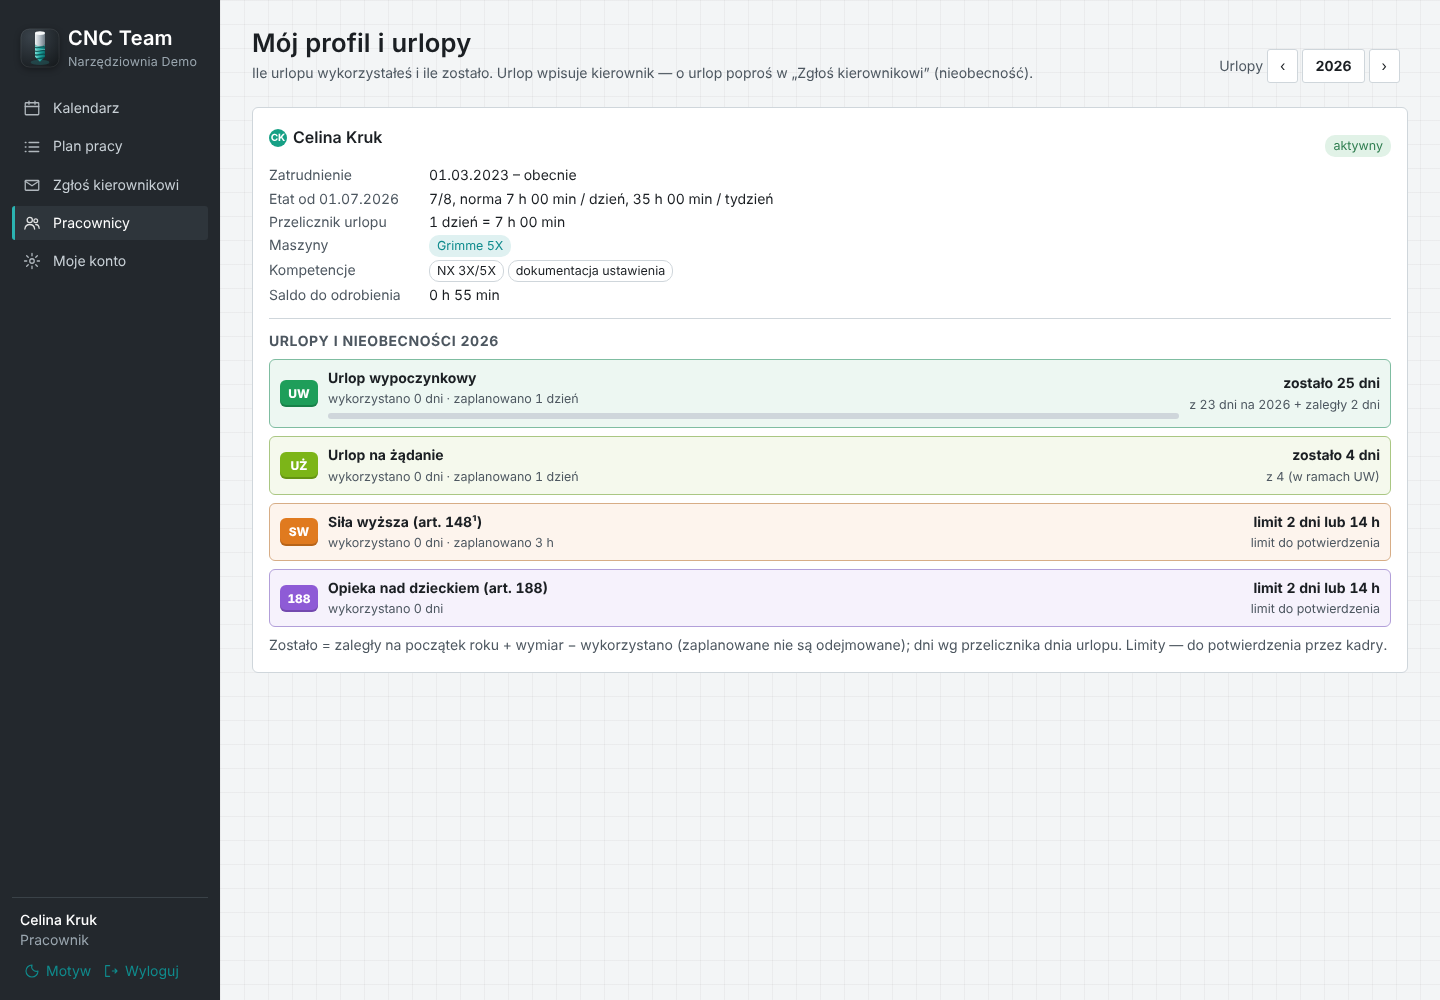
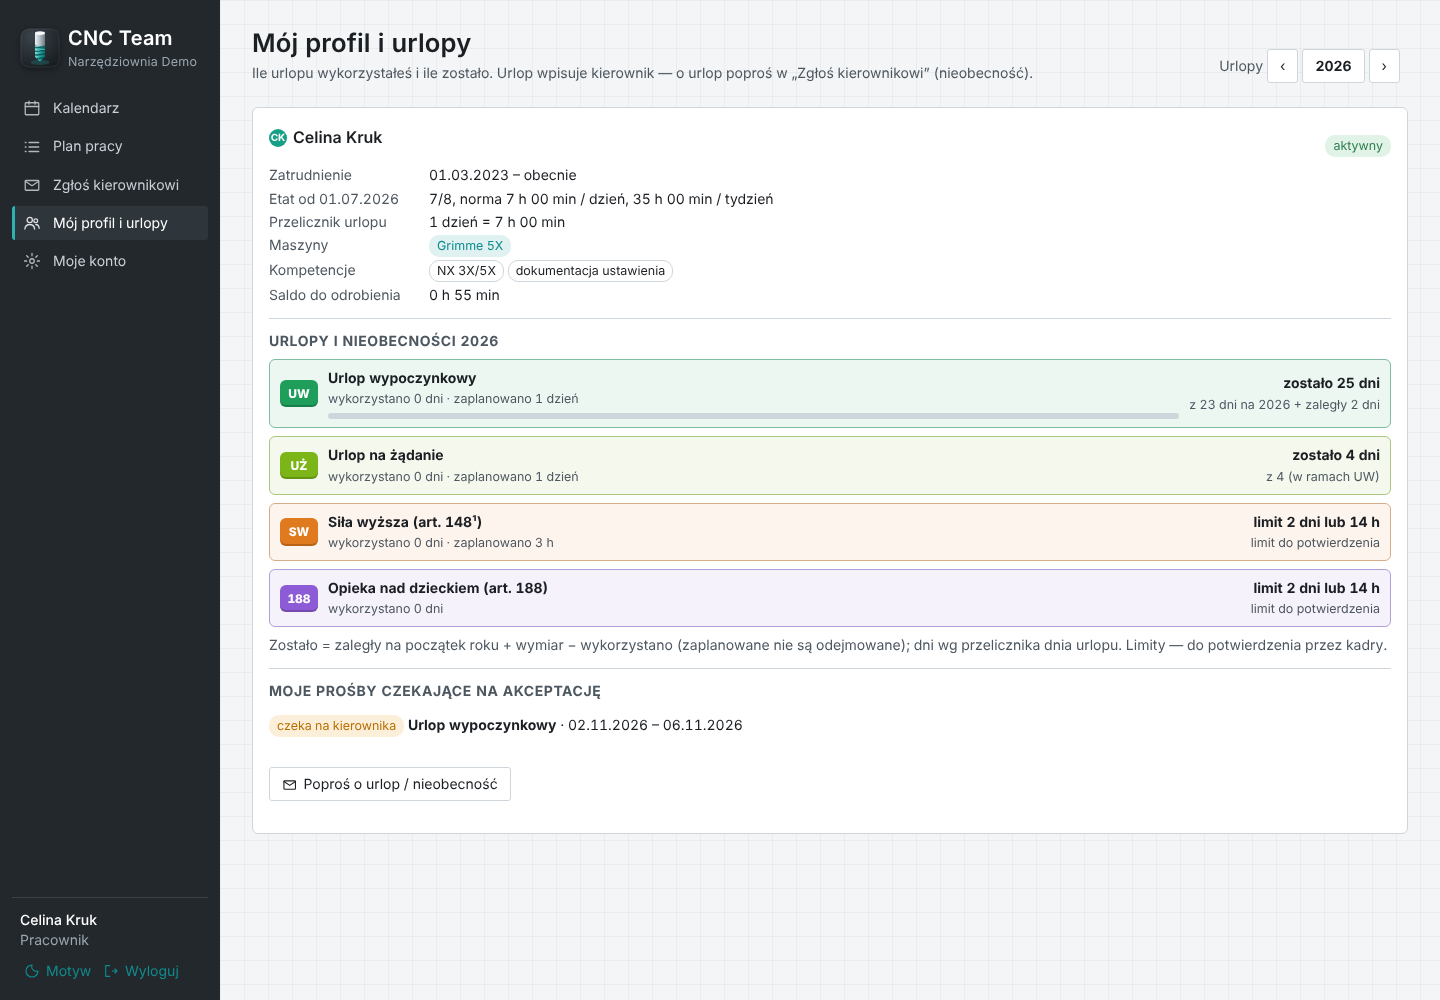
Wersja 0.13: programista zaznacza, kiedy i o jaki urlop prosi; urlop powstaje tylko po akceptacji kierownika (podpowiedziana kategoria); prośby w profilu programisty
Claude-Session: https://claude.ai/code/session_01Mgo9RDb6yKEqWF3PSmGbbJ

Changed region(s): [[0.1875, 0.682, 0.5, 0.744], [0.1875, 0.775, 0.3438, 0.806], [0.0312, 0.217, 0.125, 0.248]]

diff --git a/public/views-requests.js b/public/views-requests.js
@@ -8,6 +8,11 @@ const REQ_KIND = {
   odrobienie: ['Odrobienie czasu', 'makeup', 'Kiedy odrobiłeś / odrobisz'],
   inne: ['Inna sprawa', 'other', 'Opisz w uwadze'],
 };
+// O jaki rodzaj nieobecności prosi programista (kierownik decyduje i wpisuje)
+const WANTED_LABEL = { URLOP_WYP: 'Urlop wypoczynkowy', URLOP_NA_ZADANIE: 'Urlop na żądanie', L4: 'Zwolnienie lekarskie (L4)', OPIEKA_ZUS: 'Opieka nad chorym (zasiłek opiekuńczy)',
+  OPIEKA_188: 'Opieka nad dzieckiem (art. 188)', SILA_WYZSZA: 'Siła wyższa (art. 148¹)', OKOL_SLUB: 'Okolicznościowy — ślub', OKOL_NARODZINY: 'Okolicznościowy — narodziny dziecka',
+  OKOL_ZGON_BLISKI: 'Okolicznościowy — zgon osoby bliskiej', OKOL_SLUB_DZIECKA: 'Okolicznościowy — ślub dziecka', OKOL_ZGON_DALSZY: 'Okolicznościowy — zgon dalszej rodziny',
+  BEZPLATNY: 'Urlop bezpłatny', KREW: 'Oddawanie krwi', BADANIA_PROFIL: 'Badania profilaktyczne', SZKOLENIOWY: 'Szkolenie', WEZWANIE: 'Wezwanie (sąd, urząd)', WOJSKO: 'Obowiązki wojskowe', INNE_USTAWOWE: 'Inne zwolnienie ustawowe' };
 const REQ_STATUS = { nowe: ['czeka na decyzję', 'warn'], przyjete: ['przyjęte', 'ok'], odrzucone: ['odrzucone', 'danger'], wycofane: ['wycofane', ''] };
 
 function reqWhen(r) {
@@ -28,6 +33,8 @@ VIEWS.zglos = async (main) => {
       <form id="reqF" class="form-grid" hidden>
         <label class="field">Dzień<input type="date" name="date_from" required value="${S.me.today}"></label>
         <label class="field" data-show="nieobecnosc">Do dnia (opcjonalnie)<input type="date" name="date_to"></label>
+        <label class="field wide" data-show="nieobecnosc">O jaki rodzaj prosisz<select name="wanted_code"><option value="">— nie wiem / opiszę w uwadze —</option>${Object.entries(WANTED_LABEL).map(([k, l]) => `<option value="${k}">${esc(l)}</option>`).join('')}</select>
+          <span class="help">Zaznaczasz tylko prośbę — urlop przyznaje i wpisuje kierownik.</span></label>
         <label class="field" data-show="wyjscie odrobienie nieobecnosc inne">Od godz.<input type="time" name="time_from"></label>
         <label class="field" data-show="spoznienie wyjscie odrobienie nieobecnosc inne"><span data-lbl>Do godz.</span><input type="time" name="time_to"></label>
         <label class="field wide">Uwaga dla kierownika<textarea name="note" maxlength="500" rows="3" placeholder="Np. powód. Bez danych medycznych."></textarea></label>
@@ -35,7 +42,7 @@ VIEWS.zglos = async (main) => {
         <div class="form-error wide" role="alert"></div>
       </form></section>
       <section class="panel"><h3>Moje zgłoszenia</h3>${table([
-        { key: r => r, label: 'Zgłoszenie', fmt: r => `${icon(REQ_KIND[r.kind][1])} <b>${esc(REQ_KIND[r.kind][0])}</b><br><span class="small">${reqWhen(r)}</span>${r.note ? `<br><span class="small muted">${esc(r.note)}</span>` : ''}` },
+        { key: r => r, label: 'Zgłoszenie', fmt: r => `${icon(REQ_KIND[r.kind][1])} <b>${esc(REQ_KIND[r.kind][0])}</b>${r.wanted_code ? ` — ${esc(WANTED_LABEL[r.wanted_code] || '')}` : ''}<br><span class="small">${reqWhen(r)}</span>${r.note ? `<br><span class="small muted">${esc(r.note)}</span>` : ''}` },
         { key: r => r, label: 'Decyzja', fmt: r => `${tag(...REQ_STATUS[r.status])}${r.decision_note ? `<br><span class="small">${esc(r.decision_note)}</span>` : ''}${r.decided_at ? `<br><span class="small muted">${new Date(r.decided_at).toLocaleString('pl-PL', { timeZone: 'Europe/Warsaw' })}</span>` : ''}` },
         { key: r => r, label: '', fmt: r => r.status === 'nowe' ? `<button class="link" data-withdraw="${r.id}">Wycofaj</button>` : '' },
       ], list, { empty: 'Nie masz jeszcze zgłoszeń.', rowClass: r => r.status === 'wycofane' ? 'row-cancel' : '' })}</section></div>`;
@@ -74,7 +81,7 @@ async function localRequestsSection() {
   const list = await api('/requests');
   const html = `<section class="panel"><h3>Zgłoszenia pracowników</h3>${table([
     { key: r => r, label: 'Pracownik', fmt: r => person(r.employee_id) },
-    { key: r => r, label: 'Rodzaj', fmt: r => `${icon(REQ_KIND[r.kind][1])} ${esc(REQ_KIND[r.kind][0])}` },
+    { key: r => r, label: 'Rodzaj', fmt: r => `${icon(REQ_KIND[r.kind][1])} ${esc(REQ_KIND[r.kind][0])}${r.wanted_code ? `<br><span class="small">prośba: <b>${esc(WANTED_LABEL[r.wanted_code] || r.wanted_code)}</b></span>` : ''}` },
     { key: r => r, label: 'Kiedy', fmt: r => reqWhen(r) },
     { key: 'note', label: 'Uwaga pracownika' },
     { key: r => new Date(r.created_at).toLocaleString('pl-PL', { timeZone: 'Europe/Warsaw' }), label: 'Zgłoszono' },
@@ -108,10 +115,10 @@ function requestAcceptForm(r) {
   const { options, cats, byCode } = requestTargetOptions(r.kind);
   openForm({
     title: `Przyjmij: ${REQ_KIND[r.kind][0]} — ${S.emp.get(r.employee_id)?.first_name || ''}`,
-    intro: `<p class="small">${reqWhen(r)}${r.note ? `<br>Uwaga: ${esc(r.note)}` : ''}</p><p class="small muted">Wpis powstanie z odnośnikiem do zgłoszenia #${r.id}; w historii zapisze się, kto przyjął.</p>`,
+    intro: `<p class="small">${reqWhen(r)}${r.wanted_code ? `<br>Pracownik prosi o: <b>${esc(WANTED_LABEL[r.wanted_code] || r.wanted_code)}</b> (możesz wybrać inną kategorię)` : ''}${r.note ? `<br>Uwaga: ${esc(r.note)}` : ''}</p><p class="small muted">Wpis powstanie z odnośnikiem do zgłoszenia #${r.id}; w historii zapisze się, kto przyjął.</p>`,
     fields: [
       { name: 'target', label: 'Jak rozliczyć', type: 'select', options, value: options[0][0], placeholder: false, wide: true },
-      { name: 'category_id', label: 'Kategoria nieobecności', type: 'select', options: cats.map(c => [c.id, c.subtype ? `${c.name} — ${c.subtype}` : c.name]), value: byCode('INNE_USPRAW'), placeholder: false, wide: true, show: v => v.target === 'absence' },
+      { name: 'category_id', label: 'Kategoria nieobecności', type: 'select', options: cats.map(c => [c.id, c.subtype ? `${c.name} — ${c.subtype}` : c.name]), value: (r.wanted_code && byCode(r.wanted_code)) || byCode('INNE_USPRAW'), placeholder: false, wide: true, show: v => v.target === 'absence' },
       { name: 'unit', label: 'Jednostka (gdy kategoria pozwala)', type: 'select', options: [['dni', 'dni'], ['godziny', 'godziny']], value: r.time_from ? 'godziny' : 'dni', placeholder: false, show: v => v.target === 'absence' },
       { name: 'written_request', label: 'Uznaj zgłoszenie za pisemny wniosek pracownika', type: 'checkbox', wide: true, help: 'Czy forma elektroniczna spełnia wymóg wniosku — do potwierdzenia z kadrami.', show: v => v.target === 'exit' },
       { name: 'day_off_reason', label: 'Uzasadnienie, jeśli odrabianie wypada w dniu wolnym', wide: true, show: v => v.target === 'makeup' },

diff --git a/server/domain/requests.js b/server/domain/requests.js
@@ -11,6 +11,9 @@ const KINDS = {
   nieobecnosc: 'Nieobecność', spoznienie: 'Spóźnienie', wyjscie: 'Wyjście w trakcie zmiany',
   odrobienie: 'Odrobienie czasu', inne: 'Inna sprawa',
 };
+// Rodzaje nieobecności, o które programista może poprosić (zaznacza — przyjęcie i wpis wyłącznie przez kierownika)
+const WANTED = ['URLOP_WYP', 'URLOP_NA_ZADANIE', 'L4', 'OPIEKA_ZUS', 'OPIEKA_188', 'SILA_WYZSZA', 'OKOL_SLUB', 'OKOL_NARODZINY', 'OKOL_ZGON_BLISKI',
+  'OKOL_SLUB_DZIECKA', 'OKOL_ZGON_DALSZY', 'BEZPLATNY', 'KREW', 'BADANIA_PROFIL', 'SZKOLENIOWY', 'WEZWANIE', 'WOJSKO', 'INNE_USTAWOWE'];
 const DATE_RE = /^\d{4}-\d{2}-\d{2}$/;
 const TIME_RE = /^([01]\d|2[0-3]):[0-5]\d$/;
 const MAX_BACK_DAYS = 31;
@@ -22,6 +25,7 @@ function validate(body, today = T.today()) {
     kind: body.kind, date_from: body.date_from, date_to: body.date_to || body.date_from,
     time_from: body.time_from || null, time_to: body.time_to || null,
     note: body.note == null || String(body.note).trim() === '' ? null : String(body.note).trim(),
+    wanted_code: body.kind === 'nieobecnosc' && body.wanted_code ? String(body.wanted_code) : null,
   };
   const errors = [];
   if (typeof r.kind !== 'string' || !Object.hasOwn(KINDS, r.kind)) errors.push('Wybierz rodzaj zgłoszenia.');
@@ -41,6 +45,7 @@ function validate(body, today = T.today()) {
     if (r.date_to !== r.date_from) errors.push('Odrobienie zgłaszasz osobno dla każdego dnia.');
   }
   if (r.kind === 'inne' && !r.note) errors.push('Opisz sprawę w uwadze.');
+  if (r.wanted_code && !WANTED.includes(r.wanted_code)) errors.push('Nieznany rodzaj nieobecności.');
   if (r.note && r.note.length > 500) errors.push('Uwaga może mieć najwyżej 500 znaków.');
   if (errors.length) throw bad(errors.join(' '), { errors });
   return r;
@@ -56,8 +61,8 @@ function createRequest(db, user, body) {
   }
   return db.tx(() => {
     const now = T.nowIso();
-    const res = db.run(`INSERT INTO requests(employee_id,user_id,client_id,kind,date_from,date_to,time_from,time_to,note,status,created_at,updated_at)
-      VALUES (?,?,?,?,?,?,?,?,?,'nowe',?,?)`, user.employee_id, user.id, clientId, r.kind, r.date_from, r.date_to, r.time_from, r.time_to, r.note, now, now);
+    const res = db.run(`INSERT INTO requests(employee_id,user_id,client_id,kind,date_from,date_to,time_from,time_to,note,wanted_code,status,created_at,updated_at)
+      VALUES (?,?,?,?,?,?,?,?,?,?,'nowe',?,?)`, user.employee_id, user.id, clientId, r.kind, r.date_from, r.date_to, r.time_from, r.time_to, r.note, r.wanted_code, now, now);
     const id = Number(res.lastInsertRowid);
     audit(db, user, 'request', id, 'zgloszenie', null, { ...r, employee_id: user.employee_id }, 'zgłoszenie pracownika do weryfikacji');
     return { id, status: 'nowe' };
@@ -177,4 +182,4 @@ function decideRequest(db, user, id, body) {
   });
 }
 
-module.exports = { KINDS, validate, createRequest, listRequests, withdrawRequest, decideRequest, buildLocalEntry, autoAllocations };
+module.exports = { WANTED, KINDS, validate, createRequest, listRequests, withdrawRequest, decideRequest, buildLocalEntry, autoAllocations };

diff --git a/public/views-people.js b/public/views-people.js
@@ -10,6 +10,8 @@ VIEWS.pracownicy = async (main) => {
   const year = /^20\d{2}$/.test(q.get('rok') || '') ? Number(q.get('rok')) : Number(S.me.today.slice(0, 4));
   const leave = can('view.leave.all') || isEmployee() ? await api(`/leave/summary?year=${year}`).catch(() => []) : [];
   const leaveBy = new Map(leave.map(x => [x.employee_id, x]));
+  // programista: jego prośby o urlop czekające na decyzję kierownika
+  const pendingReq = isEmployee() ? (await api('/requests').catch(() => [])).filter(r => r.kind === 'nieobecnosc' && r.status === 'nowe') : [];
   const yearNav = leave.length ? `<span class="lc-yearnav"><span class="muted small">Urlopy</span><a class="btn" href="#/pracownicy?rok=${year - 1}" aria-label="Poprzedni rok">‹</a><span class="btn lc-year">${year}</span><a class="btn" href="#/pracownicy?rok=${year + 1}" aria-label="Następny rok">›</a></span>` : '';
   const machines = new Map(S.boot.machines.map(m => [m.id, m]));
   main.innerHTML = peopleTabs('pracownicy') + head(isEmployee() ? 'Mój profil i urlopy' : 'Pracownicy', isEmployee() ? 'Ile urlopu wykorzystałeś i ile zostało. Urlop wpisuje kierownik — o urlop poproś w „Zgłoś kierownikowi” (nieobecność).' : `Profile, wymiar etatu, normy, kompetencje i obsługiwane maszyny${leave.length ? ', a pod każdym — wykorzystane urlopy i nieobecności w roku' : ''}.`, yearNav + (isAdmin() ? btn('addEmp', 'Dodaj pracownika') : '')) +
@@ -26,6 +28,8 @@ VIEWS.pracownicy = async (main) => {
           ${e.hr_reference ? `<dt class="muted">Referencja kadrowa</dt><dd style="margin:0">${icon('lock')} ${esc(e.hr_reference)}</dd>` : ''}
         </dl>
         ${leaveBy.has(e.id) ? `<div class="lc-emp"><h4>Urlopy i nieobecności ${year}</h4>${leaveRows(leaveBy.get(e.id), year)}</div>` : ''}
+        ${isEmployee() ? `<div class="lc-emp"><h4>Moje prośby czekające na akceptację</h4>${pendingReq.length ? `<ul class="plain">${pendingReq.map(r => `<li>${tag('czeka na kierownika', 'warn')} <b>${esc(WANTED_LABEL[r.wanted_code] || 'Nieobecność')}</b> · ${reqWhen(r)}</li>`).join('')}</ul>` : '<p class="small muted">Brak. Urlop zaznaczasz w „Zgłoś kierownikowi” → Nieobecność; przyznaje go i wpisuje kierownik.</p>'}
+          <p><a class="btn" href="#/zglos">${icon('summons')}Poproś o urlop / nieobecność</a></p></div>` : ''}
         ${e.terms && e.terms.length > 1 ? `<details class="small"><summary>Historia etatu (${e.terms.length})</summary>${table([{ key: 'valid_from', label: 'Od', fmt: 'date' }, { key: r => `${r.fte_num}/${r.fte_den}`, label: 'Etat' }, { key: 'daily_norm_min', label: 'Norma dobowa', fmt: 'hm' }, { key: 'note', label: 'Uwagi' }], e.terms)}</details>` : ''}
         ${isAdmin() ? `<div class="toolbar" style="margin-top:var(--sp-3)"><button data-edit="${e.id}">Edytuj</button><button data-terms="${e.id}">Zmiana etatu</button>${!e.initial_settlement_approved_at ? `<button data-approve="${e.id}">Zatwierdź dane początkowe</button>` : ''}</div>` : ''}
       </section>`;

diff --git a/test/requests.test.js b/test/requests.test.js
@@ -224,6 +224,7 @@ test('przegląd: odrobienie omija wyjście zajęte przez oczekujące odrabianie;
   X.createExit(w.db, w.admin, { employee_id: w.e, start_date: '2026-10-02', start_time: '07:00', end_time: '08:00' });
   X.createMakeup(w.db, w.admin, { employee_id: w.e, start_date: '2026-10-01', start_time: '14:00', end_time: '15:00', allocations: [{ exit_id: s1.id, minutes: 60 }] });
   const Req = require('../server/domain/requests');
+  const { throwsStatus } = require('./helpers');
   const jan = w.db.get(`SELECT * FROM users WHERE login='jan'`);
   const r = Req.createRequest(w.db, jan, { kind: 'odrobienie', date_from: '2026-10-05', time_from: '14:00', time_to: '15:00' });
   const d = Req.decideRequest(w.db, w.admin, r.id, { decision: 'przyjete', target: { type: 'makeup' } });
@@ -253,4 +254,21 @@ test('przegląd: odrobienie omija wyjście zajęte przez oczekujące odrabianie;
     const h = (await adm.call('GET', '/audit?entity=setting&entity_id=employee_sees_all_projects')).data;
     assert.deepEqual(h[0].changes, [{ field: 'value', old: 'nie', new: 'tak' }]);
   } finally { s2.close(); }
+});
+
+test('programista zaznacza rodzaj urlopu, ale nie może go sobie przyznać; kierownik przyjmuje i wpisuje', async () => {
+  const w = world();
+  const Req = require('../server/domain/requests');
+  const { throwsStatus } = require('./helpers');
+  const jan = w.db.get(`SELECT id, login, display_name, role, employee_id FROM users WHERE login='jan'`);
+  throwsStatus(assert, () => Req.createRequest(w.db, jan, { kind: 'nieobecnosc', date_from: '2026-10-14', wanted_code: 'NIEUSPRAW' }), 400, /Nieznany rodzaj/);
+  const r = Req.createRequest(w.db, jan, { kind: 'nieobecnosc', date_from: '2026-10-14', date_to: '2026-10-14', wanted_code: 'URLOP_WYP', note: 'wyjazd' });
+  assert.equal(w.db.get('SELECT wanted_code FROM requests WHERE id=?', r.id).wanted_code, 'URLOP_WYP');
+  assert.equal(w.db.get(`SELECT COUNT(*) n FROM absences WHERE employee_id=?`, w.e).n, 0, 'prośba nie tworzy urlopu');
+  const { srv, base } = await startServer(w.db);
+  try {
+    const c = client(base); await c.login('jan');
+    assert.equal((await c.call('POST', '/absences', { employee_id: w.e, category_id: 1, start_date: '2026-10-15' })).status, 403, 'sam sobie nie wystawi');
+    assert.equal((await c.call('POST', `/requests/${r.id}/decide`, { decision: 'przyjete', target: { type: 'none' } })).status, 403, 'sam sobie nie zaakceptuje');
+  } finally { srv.close(); }
 });

diff --git a/scripts/seed-lib.js b/scripts/seed-lib.js
@@ -225,7 +225,8 @@ function seedDemo(db) {
   const as = db.get('SELECT * FROM schedule_entries WHERE employee_id=? AND work_date=?', adam, shiftDate(adam, '2026-10-06'));
   const aEnd = T.utcToLocal(as.end_at), aEnd2 = T.utcToLocal(new Date(Date.parse(as.end_at) + 45 * 60000).toISOString());
   Req.createRequest(db, u('adam'), { kind: 'odrobienie', date_from: aEnd.date, time_from: aEnd.time, time_to: aEnd2.time, note: 'Odrobię resztę wyjścia z 1.10 po zmianie' });
-  Req.createRequest(db, u('bartosz'), { kind: 'nieobecnosc', date_from: '2026-10-09', note: 'Sprawa urzędowa — proszę o dzień wolny' });
+  Req.createRequest(db, u('bartosz'), { kind: 'nieobecnosc', date_from: '2026-10-09', wanted_code: 'WEZWANIE', note: 'Sprawa urzędowa — proszę o dzień wolny' });
+  Req.createRequest(db, u('celina'), { kind: 'nieobecnosc', date_from: '2026-11-02', date_to: '2026-11-06', wanted_code: 'URLOP_WYP', note: 'Wyjazd rodzinny' });
 
   // Zestawienie do druku: opóźnione projekty z notatkami kierownika
   require('../server/domain/bundles').saveBundle(db, admin, { title: 'Opóźnienia projektów — październik 2026', shared: true,

diff --git a/public/sw.js b/public/sw.js
@@ -2,7 +2,7 @@
 // Zasada prywatności: w pamięci telefonu przechowywany jest WYŁĄCZNIE szkielet aplikacji (HTML/CSS/JS/ikony).
 // Odpowiedzi API (/api/*) — dane osobowe, absencje, rozliczenia — nigdy nie są buforowane.
 'use strict';
-const VERSION = 'cnc-team-shell-v21';
+const VERSION = 'cnc-team-shell-v22';
 const SHELL = [
   '/', '/index.html', '/tokens.css', '/app.css', '/icons.js', '/brand.js', '/charts.js', '/ui.js', '/app.js', '/views-people.js', '/views-projects.js',
   '/views-reports.js', '/views-requests.js', '/views-analytics.js', '/views-bundles.js', '/views-plan.js', '/pwa.js', '/manifest.webmanifest', '/favicon.svg', '/icons/icon-192.png', '/icons/icon-512.png',

diff --git a/scripts/screenshots-v3.py b/scripts/screenshots-v3.py
@@ -171,7 +171,7 @@ with sync_playwright() as p:
     shot(page, "99-pracownik-kalendarz", "#/kalendarz?tryb=tydzien&data=2026-10-05", settle=900)
     # programista: projekty, pracownicy, centrum programowania — przekierowanie do planu pracy
     shot(page, "103-pracownik-moje-urlopy", "#/pracownicy?rok=2026", settle=900)
-    if page.locator(".lc-emp").count() != 1:
+    if page.locator("main .cols > section.panel").count() != 1:
         errors.append("programistka powinna widzieć tylko swoje urlopy")
     for h in ["#/projekty", "#/projekty/PRJ-2026-0001", "#/dzisiaj", "#/wyjscia", "#/zdarzenia", "#/absencje"]:
         page.goto(base + "/" + h)

diff --git a/docs/RULES.md b/docs/RULES.md
@@ -147,6 +147,7 @@ Dwa paski: przygotowanie programu i wykonanie detalu = Σ wag zakończonych zada
 - Brak daty rozpoczęcia, terminu albo zadań = „brak danych” (nie zero). Założenie liniowego planu jest uproszczeniem — przy nierównych etapach lepszą miarą są terminy zadań (pokazywane osobno).
 
 ### Zgłoszenia pracowników do weryfikacji
+- Urlop: programista w zgłoszeniu nieobecności **zaznacza**, kiedy i o jaki rodzaj prosi (urlop wypoczynkowy, na żądanie, okolicznościowy, opieka itd.). To tylko prośba — żaden urlop nie powstaje bez akceptacji kierownika; przy przyjęciu kategoria jest podpowiedziana, kierownik może ją zmienić. Kierownik może też wpisać urlop sam (Pracownicy → Urlopy i absencje). Programista widzi swoje prośby czekające na akceptację w „Mój profil i urlopy”.
 - Pracownik **nie wpisuje** spóźnień, wyjść, odrabiania ani postępu prac. Składa zgłoszenie: spóźnienie (godzina przyjścia), nieobecność (dni), wyjście (od–do), odrobienie (dzień, od–do), inna sprawa (opis). Zgłoszenie najwyżej 31 dni wstecz, najwyżej 60 dni.
 - Decyzję podejmuje wyłącznie kierownik (administrator): przyjęcie z wyborem sposobu rozliczenia (wyjście prywatne, kategoria nieobecności, odrabianie, bez wpisu) albo odrzucenie z wyjaśnieniem. Jedna decyzja na zgłoszenie; wpis powstaje w tej samej transakcji co decyzja i przechodzi wszystkie walidacje (kolizje, odpoczynek, zamknięty miesiąc) — jeśli walidacja się nie powiedzie, zgłoszenie pozostaje nierozpatrzone.
 - Spóźnienie przyjęte „do odrobienia” = wyjście od początku zmiany do godziny przyjścia. Odrobienie przyjęte = odrabianie zatwierdzone, przypisane kolejno do najstarszych nierozliczonych wyjść z tego samego miesiąca (sprzed odrabiania); nadwyżka nie tworzy kredytu.

diff --git a/docs/DATA_MODEL.md b/docs/DATA_MODEL.md
@@ -12,6 +12,7 @@ Schemat: `server/migrations/001_init.sql`. Konwencje: czasy trwania w **minutach
 | `shift_templates` | Szablony zmian | godziny lokalne, przerwa niewliczana |
 | `schedule_entries` | Grafik | `work_date` (dzień rozpoczęcia = przypisanie do miesiąca), `start_at/end_at` UTC, `planned_min` (z DST) |
 | `schedule_entries` (migracja 008) | Tryb pracy i nadgodziny | `mode` (standardowa / wydluzona / nieregularna / dodatkowa), `overtime_min` (przeliczane na dobę pracownika), `reason` (powód trybu), `updated_at` |
+| `requests.wanted_code` (migracja 011) | Rodzaj nieobecności, o który prosi programista (tylko prośba; wpis po akceptacji kierownika) |
 | `report_bundles` (migracja 010) | Zestawienie do druku / wysyłki | `title`, `intro`, `items` (JSON: rodzaj, odnośnik, przyczyna, notatka, migawka danych), `shared`, autor, daty |
 | `project_returns` (migracja 009) | Powrót do zakończonego projektu (runda poprawek) | `project_id`, `round`, `opened_date`, `reason`, `cause`, `closed_date`, `close_note`, kto i kiedy otworzył/zamknął; `tasks.return_id` — zadanie założone w rundzie |
 | `work_orders` (migracja 007) | Plan pracy: polecenie kierownika na dzień | `work_date`, `employee_id`, `seq`, `title`, `details`, `project_id`/`task_id`/`machine_id`, `planned_min`, `status` (zaplanowane / wykonane / czesciowo / niewykonane / anulowane), `result_note`, `ack_at` (potwierdzenie przeczytania), `carried_from` |

diff --git a/docs/TESTS.md b/docs/TESTS.md
@@ -64,6 +64,9 @@ Zrzuty: `docs/screenshots/50…66` (kierownik, pracownik na komputerze i telefon
 ### Runda 15 — przegląd maszyn (9.10.2026)
 **56 / 56 zaliczonych.** Nowy test w `test/machine-calendar.test.js`: godziny i projekty zakończone na Hartford / Grimme w miesiącach, przyszłe miesiące = brak danych, ten sam okres rok wcześniej, zestawienie lat. Zrzuty `101`, `102`.
 
+### Runda 16 — prośba o urlop (9.10.2026)
+**57 / 57 zaliczonych.** Nowy test w `test/requests.test.js`: programista zaznacza rodzaj urlopu (nieznany rodzaj → 400), prośba nie tworzy urlopu, programista nie wpisze nieobecności ani nie zaakceptuje zgłoszenia (403). Programista widzi tylko własny profil i urlopy. Zrzuty `50`, `103`.
+
 ## Pokrycie wymaganych scenariuszy
 
 | Wymagany scenariusz | Test (plik → nazwa) |
